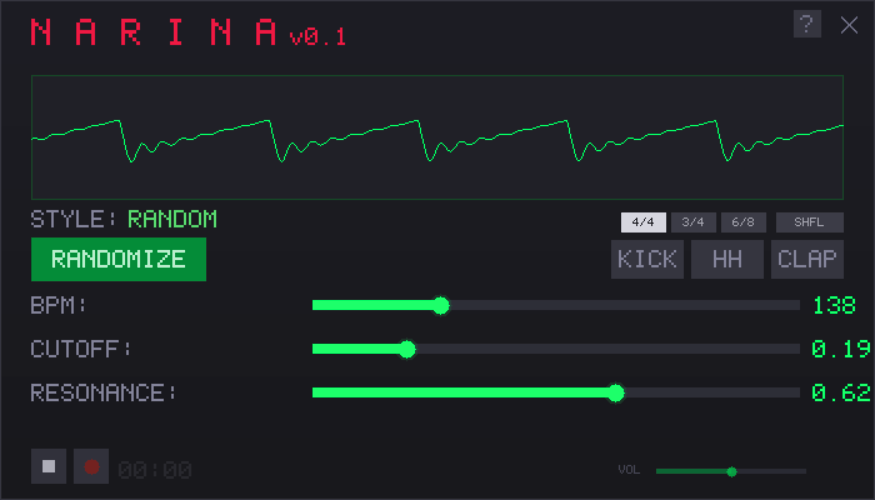
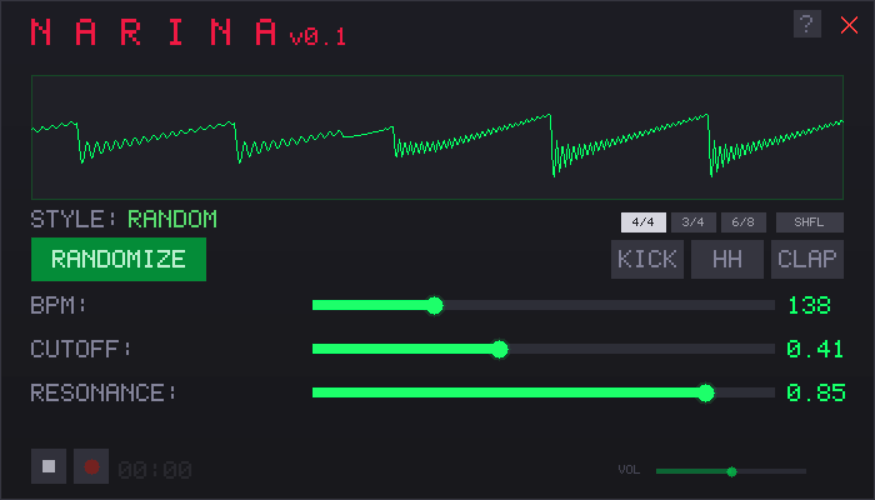
Fix right margin for slider values, update screenshot

diff --git a/src/main.c b/src/main.c
@@ -22,7 +22,7 @@
 #define BTN_H    35
 
 #define SLIDER_X 250
-#define SLIDER_W (WINDOW_W - SLIDER_X - 60)
+#define SLIDER_W (WINDOW_W - SLIDER_X - 80)
 #define SLIDER_H 8
 #define KNOB_R   7
 
